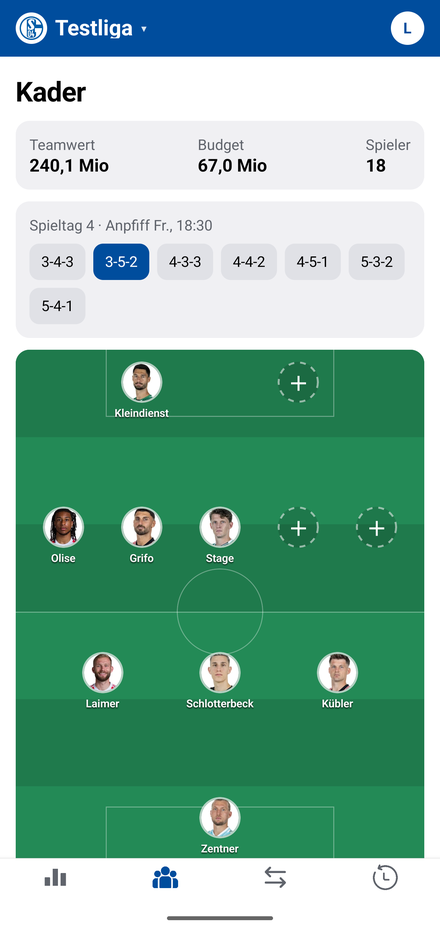
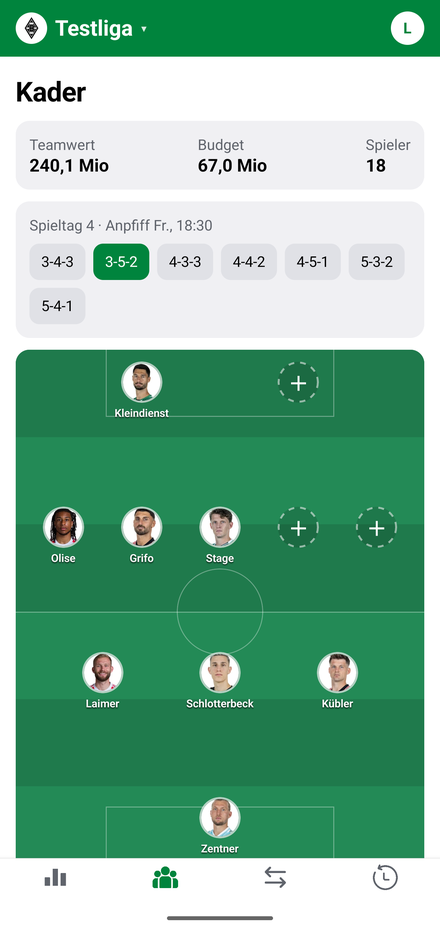
Wappen an jedem Spieler, Vereinsfarbe auch im Feed und auf ruhigen Knoepfen
Das Wappen sitzt jetzt in der Ecke jedes Spielerfotos - in Kader, Markt,
Aufstellungsauswahl und Feed. Von welchem Verein einer kommt, sieht man damit,
bevor man den Vereinsnamen liest. Die drei Stellen teilen sich dafuer eine
Komponente, statt das Foto dreimal zu bauen.

Eigene Eintraege im Aktivitaetenfeed sind in Vereinsfarbe gerahmt und getoent,
wie eigenes Team, Startelf und eigenes Gebot schon vorher.

Die ruhigen Knoepfe tragen die Vereinsfarbe als Ton und Schrift. Als Schrift
wird sie vorher gegen den Hintergrund abgedunkelt oder aufgehellt - Dortmunds
Gelb auf Weiss liest sonst niemand. Flaechen bleiben die echte Farbe.

Und der Liganame wurde oben abgeschnitten: 22 Punkt Schrift in einer Zeile von
21 Punkt, geerbt von Body.

Changed region(s): [[0.0, 0.0, 1.0, 0.0624], [0.2068, 0.2495, 0.3545, 0.3118], [0.325, 0.9355, 0.4136, 0.9667]]

diff --git a/app/src/components/ui.tsx b/app/src/components/ui.tsx
@@ -1,5 +1,6 @@
 import {
   ActivityIndicator,
+  Image,
   Pressable,
   ScrollView,
   StyleSheet,
@@ -25,6 +26,11 @@ export { useAkzent };
 /** Vereinsfarbe als leiser Untergrund - fuer das, was einem selbst gehoert. */
 export function useTon(): string {
   return useThemeMode().ton;
+}
+
+/** Vereinsfarbe, die als Schrift auf dem Hintergrund lesbar bleibt. */
+export function useSchrift(): string {
+  return useThemeMode().schrift;
 }
 
 export function Screen({
@@ -113,8 +119,8 @@ export function Button({
   variant?: "primary" | "ghost";
   disabled?: boolean;
 }) {
-  const c = useColors();
   const akzent = useAkzent();
+  const { ton, schrift } = useThemeMode();
   const off = disabled || busy;
   return (
     <Pressable
@@ -124,23 +130,65 @@ export function Button({
         styles.button,
         variant === "primary"
           ? { backgroundColor: akzent.farbe }
-          : { backgroundColor: c.backgroundElement },
+          : { backgroundColor: ton },
         (pressed || off) && { opacity: 0.6 },
       ]}
     >
       {busy ? (
-        <ActivityIndicator color={variant === "primary" ? akzent.text : c.text} />
+        <ActivityIndicator color={variant === "primary" ? akzent.text : schrift} />
       ) : (
         <Text
           style={[
             styles.buttonLabel,
-            { color: variant === "primary" ? akzent.text : c.text },
+            { color: variant === "primary" ? akzent.text : schrift },
           ]}
         >
           {label}
         </Text>
       )}
     </Pressable>
+  );
+}
+
+/**
+ * Spielerfoto mit dem Vereinswappen in der Ecke. Ohne das Wappen muss man den
+ * Vereinsnamen lesen, um zu wissen, wer da spielt - das Wappen erkennt man,
+ * bevor man liest.
+ */
+export function SpielerFoto({
+  photoUrl,
+  logoUrl,
+  groesse = 40,
+}: {
+  photoUrl?: string | null;
+  logoUrl?: string | null;
+  groesse?: number;
+}) {
+  const c = useColors();
+  const kreis = { width: groesse, height: groesse, borderRadius: groesse / 2 };
+  const wappen = Math.round(groesse * 0.45);
+  return (
+    <View style={kreis}>
+      {photoUrl ? (
+        <Image source={{ uri: photoUrl }} style={kreis} />
+      ) : (
+        <View style={[kreis, { backgroundColor: c.backgroundSelected }]} />
+      )}
+      {logoUrl && (
+        <Image
+          source={{ uri: logoUrl }}
+          style={{
+            position: "absolute",
+            right: -2,
+            bottom: -2,
+            width: wappen,
+            height: wappen,
+            borderRadius: wappen / 2,
+            backgroundColor: c.background,
+          }}
+        />
+      )}
+    </View>
   );
 }
 

diff --git a/app/src/app/(tabs)/activity.tsx b/app/src/app/(tabs)/activity.tsx
@@ -1,9 +1,18 @@
 import { useCallback, useState } from "react";
-import { Image, Pressable, RefreshControl, StyleSheet, View } from "react-native";
+import { Pressable, RefreshControl, StyleSheet, View } from "react-native";
 import { useFocusEffect, useRouter } from "expo-router";
 import { api, euroShort } from "@/lib/api";
 import { useSession } from "@/lib/session";
-import { Body, Card, ErrorText, Screen, Title, useColors } from "@/components/ui";
+import {
+  Body,
+  Card,
+  ErrorText,
+  Screen,
+  SpielerFoto,
+  Title,
+  useAkzent,
+  useTon,
+} from "@/components/ui";
 import type { Activity, ActivityEntry } from "@/types";
 
 /** "vor 3 Std" - bei einem Feed zaehlt der Abstand, nicht das Datum. */
@@ -28,7 +37,8 @@ function zeile(e: ActivityEntry): string {
 export default function ActivityScreen() {
   const { token, activeLeagueId } = useSession();
   const router = useRouter();
-  const c = useColors();
+  const akzent = useAkzent();
+  const ton = useTon();
   const [data, setData] = useState<Activity | null>(null);
   const [error, setError] = useState("");
   const [refreshing, setRefreshing] = useState(false);
@@ -82,7 +92,13 @@ export default function ActivityScreen() {
       {data?.eintraege.map((e) => (
         <Card
           key={e.id}
-          style={e.binIchBeteiligt ? { borderWidth: 1, borderColor: c.textSecondary } : undefined}
+          // Was mit dem eigenen Team zu tun hat, traegt die Vereinsfarbe -
+          // derselbe Griff wie in Tabelle, Kader und Markt.
+          style={
+            e.binIchBeteiligt
+              ? { borderWidth: 2, borderColor: akzent.farbe, backgroundColor: ton }
+              : undefined
+          }
         >
           <Pressable
             onPress={() =>
@@ -90,11 +106,7 @@ export default function ActivityScreen() {
             }
           >
             <View style={styles.row}>
-              {e.photoUrl ? (
-                <Image source={{ uri: e.photoUrl }} style={styles.foto} />
-              ) : (
-                <View style={[styles.foto, { backgroundColor: c.backgroundSelected }]} />
-              )}
+              <SpielerFoto photoUrl={e.photoUrl} logoUrl={e.team.logoUrl} />
               <View style={{ flex: 1 }}>
                 <Body style={styles.name} numberOfLines={1}>
                   {e.name}

diff --git a/app/src/lib/theme.tsx b/app/src/lib/theme.tsx
@@ -8,7 +8,13 @@ import {
 import { useColorScheme } from "react-native";
 import AsyncStorage from "@react-native-async-storage/async-storage";
 import { useSession } from "@/lib/session";
-import { STANDARDFARBE, VEREINSFARBEN, type Vereinsfarbe } from "@/constants/vereinsfarben";
+import {
+  STANDARDFARBE,
+  VEREINSFARBEN,
+  helligkeit,
+  mischen,
+  type Vereinsfarbe,
+} from "@/constants/vereinsfarben";
 
 const KEY = "rivalleague.theme";
 
@@ -23,6 +29,12 @@ type Value = {
   akzent: Vereinsfarbe;
   /** Dieselbe Farbe als leiser Untergrund, fuer hervorgehobene Karten. */
   ton: string;
+  /**
+   * Die Vereinsfarbe als Schrift auf dem Hintergrund. Flaechen bleiben immer
+   * die echte Farbe - aber Dortmunds Gelb als Text auf Weiss liest niemand,
+   * deshalb wird nur fuer Schrift nachgedunkelt oder aufgehellt.
+   */
+  schrift: string;
 };
 
 const Ctx = createContext<Value | null>(null);
@@ -57,9 +69,20 @@ export function ThemeProvider({ children }: { children: ReactNode }) {
   const verein = me?.user.favoriteTeam?.id;
   const akzent = (verein && VEREINSFARBEN[verein]) || STANDARDFARBE;
   const ton = `${akzent.farbe}${scheme === "dark" ? "33" : "1A"}`;
+  const hell = helligkeit(akzent.farbe);
+  const schrift =
+    scheme === "dark"
+      ? hell < 0.3
+        ? mischen(akzent.farbe, "#ffffff", 0.45)
+        : akzent.farbe
+      : hell > 0.55
+        ? mischen(akzent.farbe, "#000000", 0.45)
+        : akzent.farbe;
 
   return (
-    <Ctx.Provider value={{ mode, scheme, setMode, akzent, ton }}>{children}</Ctx.Provider>
+    <Ctx.Provider value={{ mode, scheme, setMode, akzent, ton, schrift }}>
+      {children}
+    </Ctx.Provider>
   );
 }
 
@@ -73,6 +96,7 @@ export function useThemeMode(): Value {
       setMode: () => {},
       akzent: STANDARDFARBE,
       ton: `${STANDARDFARBE.farbe}1A`,
+      schrift: STANDARDFARBE.farbe,
     }
   );
 }

diff --git a/app/src/app/(tabs)/market.tsx b/app/src/app/(tabs)/market.tsx
@@ -1,5 +1,5 @@
 import { useCallback, useState } from "react";
-import { Image, Pressable, RefreshControl, StyleSheet, View } from "react-native";
+import { Pressable, RefreshControl, StyleSheet, View } from "react-native";
 import { useFocusEffect, useRouter } from "expo-router";
 import { api, euro, euroShort } from "@/lib/api";
 import { useSession } from "@/lib/session";
@@ -10,9 +10,9 @@ import {
   ErrorText,
   Field,
   Screen,
+  SpielerFoto,
   Title,
   useAkzent,
-  useColors,
   useTon,
 } from "@/components/ui";
 import type { Market, Offer } from "@/types";
@@ -29,7 +29,6 @@ function restzeit(iso: string): string {
 export default function MarktScreen() {
   const { token, activeLeagueId } = useSession();
   const router = useRouter();
-  const c = useColors();
   const akzent = useAkzent();
   const ton = useTon();
 
@@ -164,11 +163,7 @@ export default function MarktScreen() {
               }}
             >
               <View style={styles.zeile}>
-                {o.photoUrl ? (
-                  <Image source={{ uri: o.photoUrl }} style={styles.foto} />
-                ) : (
-                  <View style={[styles.foto, { backgroundColor: c.backgroundSelected }]} />
-                )}
+                <SpielerFoto photoUrl={o.photoUrl} logoUrl={o.team.logoUrl} />
                 <View style={{ flex: 1 }}>
                   <Body style={styles.name}>{o.name}</Body>
                   <Body dim>

diff --git a/app/src/components/league-switcher.tsx b/app/src/components/league-switcher.tsx
@@ -89,7 +89,7 @@ export function LeagueSwitcher() {
         <View
           style={[
             styles.sheet,
-            { backgroundColor: c.background, paddingTop: insets.top },
+            { backgroundColor: c.background, paddingTop: insets.top + 8 },
           ]}
         >
           <ScrollView contentContainerStyle={styles.sheetInner} keyboardShouldPersistTaps="handled">
@@ -201,7 +201,7 @@ const styles = StyleSheet.create({
   pfeil: { fontSize: 18, opacity: 0.85 },
   kreis: { alignItems: "center", justifyContent: "center" },
   initiale: { fontWeight: "700" },
-  ligaName: { fontSize: 22, fontWeight: "700", flexShrink: 1 },
+  ligaName: { fontSize: 22, lineHeight: 28, fontWeight: "700", flexShrink: 1 },
   backdrop: { position: "absolute", top: 0, left: 0, right: 0, bottom: 0, backgroundColor: "#0008" },
   sheet: { maxHeight: "85%", borderBottomLeftRadius: 18, borderBottomRightRadius: 18 },
   sheetInner: { padding: 16, gap: 10 },

diff --git a/app/src/constants/vereinsfarben.ts b/app/src/constants/vereinsfarben.ts
@@ -34,3 +34,18 @@ export const VEREINSFARBEN: Record<number, Vereinsfarbe> = {
 
 /** Ohne Lieblingsverein bleibt es beim Blau der App. */
 export const STANDARDFARBE: Vereinsfarbe = { farbe: "#208AEF", text: "#fff" };
+
+/** Wie hell eine Farbe wirkt, 0 bis 1. */
+export function helligkeit(hex: string): number {
+  const n = parseInt(hex.slice(1), 16);
+  return (0.299 * ((n >> 16) & 255) + 0.587 * ((n >> 8) & 255) + 0.114 * (n & 255)) / 255;
+}
+
+/** Mischt zwei Farben. Fuer Schrift, die auf dem Hintergrund lesbar bleiben muss. */
+export function mischen(hex: string, ziel: string, anteil: number): string {
+  const a = parseInt(hex.slice(1), 16);
+  const b = parseInt(ziel.slice(1), 16);
+  const kanal = (v: number) =>
+    Math.round(((a >> v) & 255) + (((b >> v) & 255) - ((a >> v) & 255)) * anteil);
+  return `#${((kanal(16) << 16) | (kanal(8) << 8) | kanal(0)).toString(16).padStart(6, "0")}`;
+}

diff --git a/app/src/app/(tabs)/squad.tsx b/app/src/app/(tabs)/squad.tsx
@@ -1,7 +1,6 @@
 import { useCallback, useMemo, useRef, useState } from "react";
 import {
   Alert,
-  Image,
   Modal,
   Pressable,
   RefreshControl,
@@ -19,6 +18,7 @@ import {
   Card,
   ErrorText,
   Screen,
+  SpielerFoto,
   Title,
   useAkzent,
   useColors,
@@ -487,14 +487,9 @@ function Bogen({
 }
 
 function SpielerZeile({ p }: { p: SquadPlayer }) {
-  const c = useColors();
   return (
     <View style={styles.zeile}>
-      {p.photoUrl ? (
-        <Image source={{ uri: p.photoUrl }} style={styles.foto} />
-      ) : (
-        <View style={[styles.foto, { backgroundColor: c.backgroundSelected }]} />
-      )}
+      <SpielerFoto photoUrl={p.photoUrl} logoUrl={p.team.logoUrl} />
       <View style={{ flex: 1 }}>
         <Body style={styles.name} numberOfLines={1}>
           {p.name}

diff --git a/README.md b/README.md
@@ -34,10 +34,13 @@ aus den echten Spielen des Wochenendes.
   seine Form der letzten drei Spieltage angepasst.
 - **Aktivitätenfeed.** Alle Käufe und Verkäufe der Mitspieler und alles, was neu auf
   dem Markt liegt, in einem Zeitstrahl.
+- **Vereinswappen an jedem Spieler**, in Kader, Markt, Aufstellungsauswahl und Feed —
+  von welchem Verein einer kommt, sieht man, bevor man den Namen liest.
 - **Die App in den Farben des eigenen Vereins.** Beim ersten Start wählt man seinen
   Lieblingsverein aus der Liga; von da an trägt die Kopfzeile sein Wappen und seine
   Farbe, und Knöpfe, aktiver Reiter, Formationschips und die eigenen Karten in Tabelle,
-  Kader und Markt sind darauf abgestimmt. Die Farbe ist in hell und dunkel dieselbe —
+  Kader, Markt und Aktivität sind darauf abgestimmt — alles, was mit dem eigenen Team
+  zu tun hat, trägt dieselbe Farbe. Die Farbe ist in hell und dunkel dieselbe —
   Schalkes Blau ist Schalkes Blau. Der Verein hängt am Konto, nicht an der Liga, und
   lässt sich im Profil wechseln.
 - **Profil und Einstellungen** hinter dem Kreis oben rechts: dort steht der Verein, in
@@ -67,8 +70,10 @@ keinen einzigen API-Aufruf.
 **Vereinsfarben stehen im Code.** Weder API-Football noch OpenLigaDB liefern sie, und
 eine Farbe ändert sich seltener als ein Kader — also eine Tabelle in
 `app/src/constants/vereinsfarben.ts`, je Verein ein Farbwert und die Schrift, die
-darauf lesbar ist (bei Dortmunds Gelb muss sie dunkel sein). Gefärbt werden nur
-Flächen, nie Fließtext: so bleibt jede Schrift lesbar, egal wie hell der Verein spielt.
+darauf lesbar ist (bei Dortmunds Gelb muss sie dunkel sein). Fließtext bleibt immer
+die normale Textfarbe; wo die Vereinsfarbe doch einmal Schrift ist — auf den ruhigen
+Knöpfen —, wird sie vorher gegen den Hintergrund abgedunkelt oder aufgehellt, sonst
+läse niemand Gelb auf Weiß.
 
 **Zwei Datenquellen, bewusst.** Spieler und Statistiken kommen von API-Football, der
 Spielplan von OpenLigaDB. Grund: Im kostenlosen Tarif von API-Football ist nur ein
